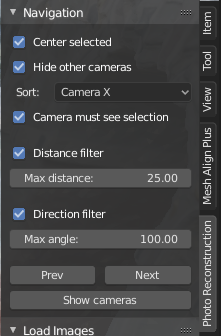
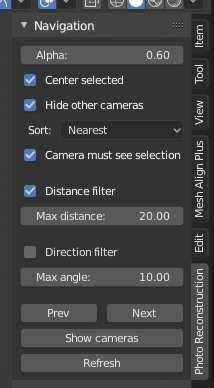
Bugfix navigation. Added "Alpha", "Refresh"

diff --git a/Photo_Reconstruction_Tools.py b/Photo_Reconstruction_Tools.py
@@ -39,7 +39,7 @@ def show_camera(scene, cam, pivot = False):
     cam.data.show_name = True
     cam.hide_set(False)
     scene.camera = cam
-    print('Camera: '+cam.name)
+    print('Switching to camera: '+cam.name)
     r3d = False
     for area in bpy.context.screen.areas:
         if area.type == 'VIEW_3D':
@@ -158,22 +158,6 @@ def is_visible(verts_co, cam):
     return res
 
             
-def camera2camera(target, camera):
-    """
-    cw = camera.matrix_world @ camera.location
-    c = target.perspective_matrix @ Vector(( cw[0], cw[1], cw[2], 1.0))
-    if c.w>0:
-        c.x = c.x/c.w
-        c.y = c.y/c.w
-        c.z = c.z/c.w
-        c.w = 1.0
-    return c
-    """
-#    return world_to_camera_view(bpy.context.scene, target, camera.matrix_world @ camera.location)
-    return world_to_camera_view(bpy.context.scene, target, camera.matrix_world @ camera.location)
-
-
-
 nav_last_dir = 'unknown'
 nav_loop_filter = []    
 
@@ -186,7 +170,8 @@ class Recon_SwitchCamera(bpy.types.Operator):
     direction: bpy.props.EnumProperty(
         items=[('next', "Next camera", ""),
                ('prev', "Prev caamera", ""),
-               ('showcam', "Show caameras", "")
+               ('showcam', "Show caameras", ""),
+               ('refresh', "Refresh", "")
                ],
         name="Direction", 
         default='next',
@@ -196,11 +181,28 @@ class Recon_SwitchCamera(bpy.types.Operator):
     def execute(self, context):        # execute() is called when running the operator.
         global nav_last_dir
         global nav_loop_filter
+
+        def cam_index(aname):
+            for index, item in enumerate(cams):
+                if aname == item.name:
+                    break
+            else:
+                index = -1
+                
+            return index
         
         settings = context.scene.recon_settings
+        print('Direction: {:s}'.format(self.direction))
 
         scene = context.scene
+
+        if self.direction == 'refresh':
+            if scene.camera:
+                show_camera(scene, scene.camera, False)
+            return {'FINISHED'}
+
         cams = [obj for obj in scene.objects if obj.type == 'CAMERA']
+        print('Cams total: {:d}'.format(len(cams)))
 
         if self.direction == 'showcam':
             for item in cams:
@@ -209,12 +211,14 @@ class Recon_SwitchCamera(bpy.types.Operator):
 
 
         # loop filter
-#        print(nav_last_dir)
-#        print(nav_loop_filter)
-        if nav_last_dir == self.direction:
-            cams = list(filter(lambda c: not c.name in nav_loop_filter, cams))
-        else:
-            nav_loop_filter = []
+        if not settings.nav_sort_mode in ['none']:
+            print('Last direction {:s}'.format(nav_last_dir))
+            print(nav_loop_filter)
+            if nav_last_dir == self.direction:
+                cams = list(filter(lambda c: not c.name in nav_loop_filter, cams))
+                print('Cams loop filter: {:d}'.format(len(cams)))
+            else:
+                nav_loop_filter = []
              
         nav_last_dir = self.direction
                             
@@ -225,21 +229,27 @@ class Recon_SwitchCamera(bpy.types.Operator):
                 sel = get_selected_vertices()
             if sel:
                 cams = list(filter(lambda c: is_visible(sel, c) , cams))
+                # restore sensor for current camera
+                if scene.camera:
+                    adjust_render_resolution(scene.camera)
+                print('Cams selected filter: {:d}'.format(len(cams)))
 
 
-        if scene.camera:
+        if scene.camera and 0 <= cam_index(scene.camera.name) < len(cams):
             nav_loop_filter.append(scene.camera.name)
 
             # angle filter
             cam_direction = scene.camera.matrix_world.to_quaternion() @ Vector((0.0, 0.0, -1.0))
             if settings.nav_filter_angle_enable:            
                 cams = list(filter(lambda c: math.degrees(cam_direction.angle( c.matrix_world.to_quaternion() @ Vector((0.0, 0.0, -1.0)) )) < settings.nav_filter_angle , cams))
-#                print('Filter angle: {:d}'.format(len(cams)))
+                print('Filter angle: {:d}'.format(len(cams)))
+                print('Cams angle filter: {:d}'.format(len(cams)))
 
             # distance filter
             if settings.nav_filter_distance_enable:            
                 cams = list(filter(lambda c: (scene.camera.location - c.location).length < settings.nav_filter_distance , cams))
-#                print('Filter distance: {:d}'.format(len(cams)))
+                print('Filter distance: {:d}'.format(len(cams)))
+                print('Cams distance filter: {:d}'.format(len(cams)))
 
             # sort modes
             if settings.nav_sort_mode == 'distance':                
@@ -260,52 +270,62 @@ class Recon_SwitchCamera(bpy.types.Operator):
 
 
             # find current camera index
-            for index, item in enumerate(cams):
-                item.hide_set
-                if scene.camera.name == item.name:
-                    break
-            else:
-                index = -1
+            index = cam_index(scene.camera.name)
+            print('Current camera index: {:d}'.format(index))
                 
+            if index>=0:
+                if self.direction == 'prev':
+                    index -= 1
+                else:
+                    index += 1
+                    if index >= len(cams):
+                        index = -1
+
+            print('Next camera index: {:d}'.format(index))
+            if 0 <= index < len(cams):
+                new_cam_direction = cams[index].matrix_world.to_quaternion() @ Vector((0.0, 0.0, -1.0))
+                print('Angle diff {:f}'.format(math.degrees(cam_direction.angle(new_cam_direction))))
+                print('Distance {:f}'.format( (cams[index].location - scene.camera.location).length ))
+            
         else:
+            # no camera selected or current camera does not fit filters => jump to first matching cam
             index = 0
 
-        if index>=0:
-            if self.direction == 'prev':
-                index -= 1
-            else:
-                index += 1
-                if index >= len(cams):
-                    index = -1
                     
-        if index>=0:
+        if 0 <= index < len(cams):
             view_target = False
             if settings.nav_center_selected:
                 if not sel:
                     sel = get_selected_vertices()
                 if sel:
                     view_target = sum(sel, Vector()) / len(sel)
-                    view_target = bpy.context.active_object.matrix_world @ view_target
+                    #view_target = bpy.context.active_object.matrix_world @ view_target
 
             if settings.nav_hide_other:
                 for obj in scene.objects:
                     if obj.type == 'CAMERA':
                         obj.hide_set(True)
             
-            print('------ Next cam #{:d} ------'.format(index))
-            try:
-                new_cam_direction = cams[index].matrix_world.to_quaternion() @ Vector((0.0, 0.0, -1.0))
-                print('Angle diff {:f}'.format(math.degrees(cam_direction.angle(new_cam_direction))))
-                print('Distance {:f}'.format( (cams[index].location - scene.camera.location).length ))
-            except:
-                none
-            
             show_camera(scene, cams[index], view_target)
+
+            for bg_image in cams[index].data.background_images:
+                if bg_image.image and bg_image.image.name == cams[index].name:
+                    bg_image.alpha = settings.nav_alpha
+                    break
 
         return {'FINISHED'}            # Lets Blender know the operator finished successfully.
 
 
-
+def set_alpha(self, value):
+    self["nav_alpha"] = value
+    camera = bpy.context.scene.camera
+    if camera:
+        for bg_image in camera.data.background_images:
+            if bg_image.image and bg_image.image.name == camera.name:
+                bg_image.alpha = value
+                break
+    
+    
 class Recon_RotateCamera(bpy.types.Operator):
     bl_idname = "reconstruction.rotate_cam"        # Unique identifier for buttons and menu items to reference.
     bl_label = "Rotate camera"         # Display name in the interface.
@@ -565,6 +585,15 @@ class Recon_Settings(bpy.types.PropertyGroup):
         )
 
     # ---- NAV ----
+    nav_alpha: bpy.props.FloatProperty(
+        name='Alpha', 
+        description = 'Photo transparency',
+        default = 0.6,
+        min=0, 
+        max=1,
+        set=set_alpha
+        )
+        
     nav_center_selected: bpy.props.BoolProperty(
         name="Center selected", 
         default=True,
@@ -689,6 +718,7 @@ class Recon_Nav_panel(bpy.types.Panel):
         layout = self.layout
 
         settings = context.scene.recon_settings
+        layout.prop(settings, "nav_alpha")
         layout.prop(settings, "nav_center_selected")
         layout.prop(settings, "nav_hide_other")
         layout.prop(settings, "nav_sort_mode")
@@ -705,6 +735,7 @@ class Recon_Nav_panel(bpy.types.Panel):
         row.operator(Recon_SwitchCamera.bl_idname, text='Prev').direction='prev'
         row.operator(Recon_SwitchCamera.bl_idname, text='Next').direction='next'
         layout.operator(Recon_SwitchCamera.bl_idname, text='Show cameras').direction='showcam'
+        layout.operator(Recon_SwitchCamera.bl_idname, text='Refresh').direction='refresh'
 
 
 class Recon_Orientations_panel(bpy.types.Panel):

diff --git a/README.md b/README.md
@@ -32,6 +32,9 @@ At Blender:
 
 Navigate through cameras with Ctrl-Left / Ctrl-Right
 
+### Alpha
+Change photo transparency
+
 ### Center selected
 Put selection center in the middle of viewport
 
@@ -39,7 +42,7 @@ Put selection center in the middle of viewport
 Hide all cameras except the active one
 
 ### Sort
-Criteria to choose next camera
+Criteria to choose next camera. Keep in mind that 'sorted' camera list is not reversable as it is built for current camera not for scene.
 
 - None: use cameras order within scene data
 - Distance: choose closest camera in selected direction
@@ -49,9 +52,13 @@ Criteria to choose next camera
 Distance: filter out too large jumps between cameras while navigating  
 Angle: filter cameras with view direction too different from current camera  
 
+## Orientation
+Change camera orientation with "Photo Reconstruction" panel -> Rotate camera  
+If your photo set contain both vertical and horisontal captured photos it can be convenient to rotate such cameras to preserve general scene orientation on screen.  
+This effect is achieved by rotating both camera and image. But this also require to adjust render area for such rotated cameras. If camera sensor/image does not fit scene try to use "Navigation panel"->"Refresh" button 
+
 ## Other tools:
 
-- Change camera orientation with "Photo Reconstruction" panel -> Rotate camera
 - Toggle photo visibility with Ctrl-Down
 - Toggle imported mesh visibility with Ctrl-Up ("mesh1")
 - Save current view orientation with Photo Reconstruction -> Save Orientation
